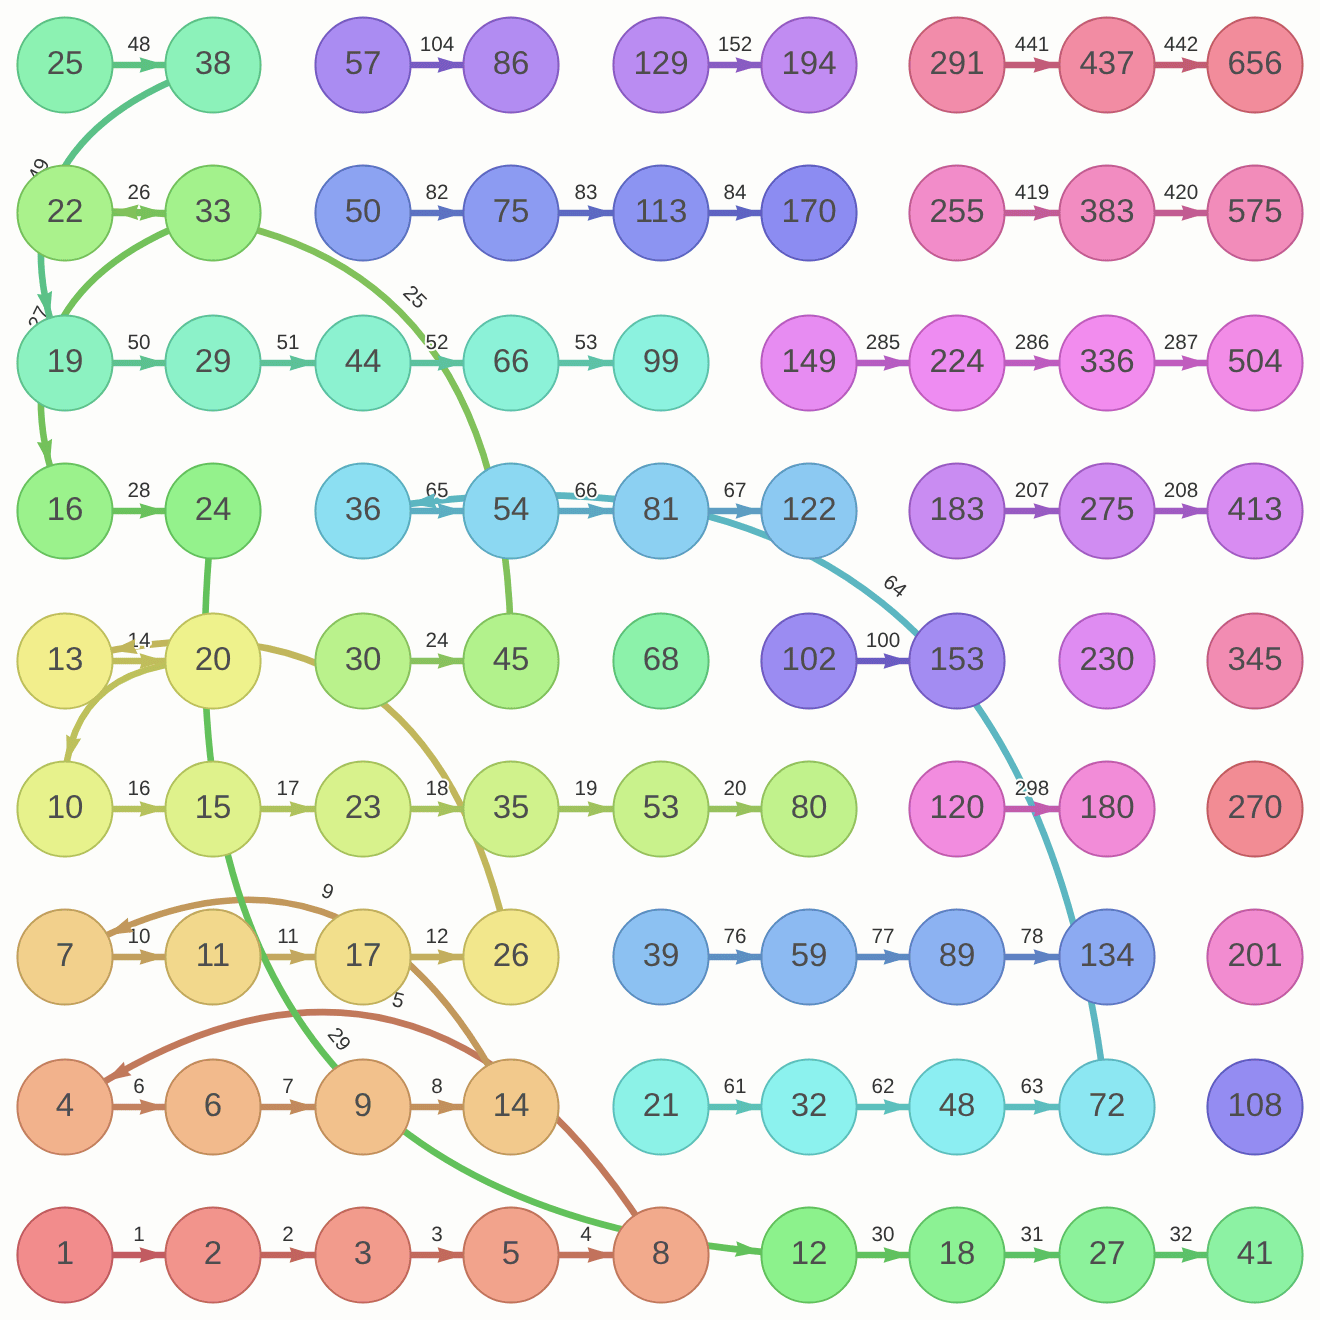
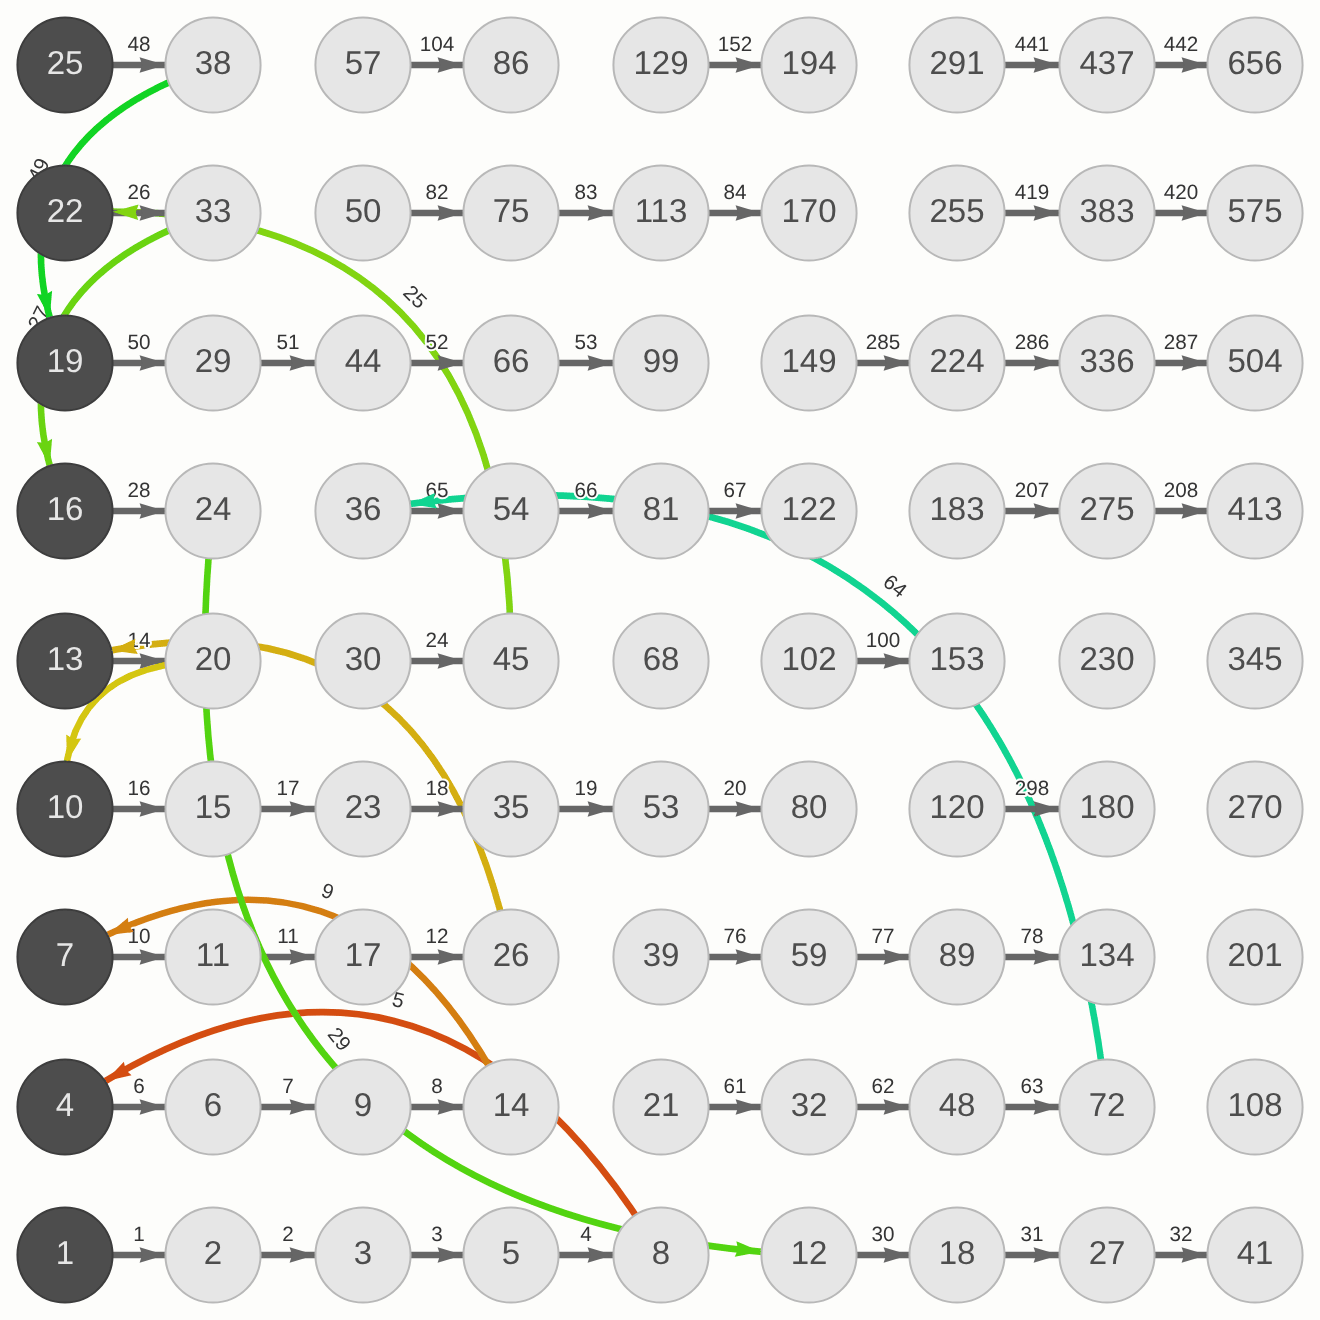
Rosary paper: the beads told so far are T_i; Figure 8 in black and white
- T_i (T for told) replaces V_i; the time T of the proof of Theorem 6
  becomes t_0.
- Figure 8: black and white beads, up moves in gray, down moves as
  curved arrows colored in the order of the moves.

diff --git a/figures/jane-s-rosary/deconstructed.html b/figures/jane-s-rosary/deconstructed.html
@@ -47,6 +47,9 @@
         // P.columns   ['lambex']: write the lambda exponent under each column
         // P.color     ['none', 'position', 'label', 'height', 'reluctant_inv']
         // P.arrows     ['no', 'yes', 'labelled']
+        // P.ink        ['down']: with ordering=reluctant, the up moves are
+        //              drawn in one plain color and only the down moves
+        //              are colored, in the order of the moves
         let wid = parseInt(P.width)
         let hei = parseInt(P.height)
         let sym = P.sym == 'yes' ? true : false
@@ -363,7 +366,15 @@
                             false : {enabled: true, type: 'curvedCCW'}
                         let label = this.arrows == 'yes' ?
                             '' : '' + node_ord
+                        let ink = {}
+                        if (P.ink == 'down') {
+                            const rank = this.reluctant_invs.reduce(
+                                (c, e) => e < node_ord ? c + 1 : c, 0)
+                            ink = {color: node == up(prev_node) ? THEME.line
+                                : hsl_to_col(rank*300/this.side**2, 85, 45)}
+                        }
                         return [{
+                            ...ink,
                             id: prev_node_id*this.side**2 + node_id,
                             from: prev_node_id,
                             to: node_id,

diff --git a/content/posts/2022-12-02-jane-s-infinite-rosary/index.md b/content/posts/2022-12-02-jane-s-infinite-rosary/index.md
@@ -778,14 +778,15 @@ has already been told (or when she is at bead $1$) does she reluctantly move
 *up*.
 
 We write $\rho(i)$ for the bead reached after $i$ moves and
-$V_i = \{\rho(0), \ldots, \rho(i)\}$ for the set of beads told so far. For
+$T_i = \{\rho(0), \ldots, \rho(i)\}$ for the set of beads told so far ($T$ for
+*told*). For
 instance $\rho(0), \rho(1), \ldots = 1, 2, 3, 5, 8, 4, 6, 9, 14, 7, 11, 17, 26,
 13, \ldots$, so $\rho(5) = 4$ and $\rho(12) = 26$. Time is counted from $0$:
 $\rho(i)$ comes after $i$ moves.
 
-[![Figure 8](images/figure-08.png)](https://blog.atlant.is/figures/jane-s-rosary/deconstructed.html?n=0&width=9&height=9&ordering=reluctant&label=position&color=reluctant_inv&arrows=labelled&interactive=yes&first=1)
+[![Figure 8](images/figure-08.png)](https://blog.atlant.is/figures/jane-s-rosary/deconstructed.html?n=0&width=9&height=9&ordering=reluctant&label=position&color=none&ink=down&arrows=labelled&interactive=yes&first=1)
 
-> Figure 8: Jane's reluctant recitation on the deconstructed rosary. Each arrow carries the number of the move, and the beads are colored in the order in which they are told, from red to violet. An up move is a step to the right; a down move jumps to another row ([live version](https://blog.atlant.is/figures/jane-s-rosary/deconstructed.html?n=0&width=9&height=9&ordering=reluctant&label=position&color=reluctant_inv&arrows=labelled&interactive=yes&first=1)).
+> Figure 8: Jane's reluctant recitation on the deconstructed rosary. Each arrow carries the number of the move. An up move is a step to the right, drawn in gray; a down move jumps to another row, and these curved arrows are colored in the order of the moves, from red to green ([live version](https://blog.atlant.is/figures/jane-s-rosary/deconstructed.html?n=0&width=9&height=9&ordering=reluctant&label=position&color=none&ink=down&arrows=labelled&interactive=yes&first=1)).
 
 ```python
 def rho(i: int) -> int:
@@ -807,7 +808,7 @@ below and the bead above have already been told. [Theorem 2](#theorem-2) says th
 never happens.
 
 **Lemma 3 (down-closure).** As long as the recitation is defined: if
-$n \in V_i$, $n > 1$ and $n \neq \rho(i)$, then $nD \in V_i$.
+$n \in T_i$, $n > 1$ and $n \neq \rho(i)$, then $nD \in T_i$.
 
 *Proof.* Say $n = \rho(j)$ with $j < i$. At that moment either $nD$ had been
 told already, or Jane moved to it: $\rho(j+1) = nD$. $\quad\Box$
@@ -820,7 +821,7 @@ except possibly for the path Jane is currently descending.
 
 **Theorem 2.** The reluctant recitation is well defined for all times, $\rho$
 is injective, and it never creates a gap in an up-chain: for every $i$ and
-every white bead $w \in V_i$, we have $w\lambda \in V_i$.
+every white bead $w \in T_i$, we have $w\lambda \in T_i$.
 
 [![Figure 9](images/figure-09.png)](https://blog.atlant.is/figures/jane-s-rosary/deconstructed.html?n=31&width=9&height=9&ordering=reluctant&label=position&color=reluctant_inv&arrows=labelled&interactive=yes&first=1)
 
@@ -840,27 +841,27 @@ defined and distinct; (b) the no-gap property holds at all times $j \leq i$.
 Both are clear for $i = 0$.
 
 *Jane can move at time $i$.* Let $n = \rho(i)$. If $n > 1$ and
-$nD \notin V_i$, she moves down to a new bead. Otherwise she wants to move up
-to $nU$, and we must show $nU \notin V_i$. If $nU = \rho(j)$ for some
+$nD \notin T_i$, she moves down to a new bead. Otherwise she wants to move up
+to $nU$, and we must show $nU \notin T_i$. If $nU = \rho(j)$ for some
 $j \le i$, then $j < i$ and, $nU$ being white, (b) at time $j$ gives
-$n = nU\lambda \in V_j$, contradicting (a). So (a) holds at time $i+1$.
+$n = nU\lambda \in T_j$, contradicting (a). So (a) holds at time $i+1$.
 
 *No gap at time $i+1$.* Let $w = \rho(i+1)$ be white and suppose
-$g = w\lambda \notin V_{i+1}$. The last move was not an up move (it would have
+$g = w\lambda \notin T_{i+1}$. The last move was not an up move (it would have
 come from $g$), so $\rho(i) \in \{w\mu, w\nu\}$. We use [Lemma 1](#lemma-1) and its two
 diagrams: Jane arrived at $w$ down the right-hand side, and the left-hand
 side shows that $g$ had been told before.
 
-- If $\rho(i)$ is the white bead $\hat{w}$: by (b), $\hat{w}\lambda \in V_i$,
+- If $\rho(i)$ is the white bead $\hat{w}$: by (b), $\hat{w}\lambda \in T_i$,
   and $\hat{w}\lambda \neq \rho(i)$, so [Lemma 3](#lemma-3) gives
-  $g = \hat{w}\lambda D \in V_i$.
+  $g = \hat{w}\lambda D \in T_i$.
 - If $\rho(i)$ is the black bead $b$: a black bead is never reached by an up
   move, so $\rho(i-1) = p$ for some $p \in \{b\mu, b\nu\}$, which is white.
-  By (b), $p\lambda \in V_{i-1}$. Applying [Lemma 3](#lemma-3) twice (to $p\lambda$ and
+  By (b), $p\lambda \in T_{i-1}$. Applying [Lemma 3](#lemma-3) twice (to $p\lambda$ and
   then to $p\lambda D$, neither of which is the current bead $p$) gives
-  $g = p\lambda DD \in V_{i-1}$.
+  $g = p\lambda DD \in T_{i-1}$.
 
-Both cases contradict $g \notin V_{i+1}$. $\quad\Box$
+Both cases contradict $g \notin T_{i+1}$. $\quad\Box$
 
 *Used:* [Fact 1](#fact-1), [Lemma 1](#lemma-1) and [Lemma 3](#lemma-3).
 
@@ -1246,7 +1247,7 @@ how Jane spends her time ([Theorem 5](#theorem-5)) and how long a bead may have 
 This section makes [Theorem 3](#theorem-3) quantitative. Let $u(t)$ be the number of up
 moves among Jane's first $t$ moves, and let
 
-$$F(t) = \min\big(\mathbb{N}^*\setminus V_t\big)$$
+$$F(t) = \min\big(\mathbb{N}^*\setminus T_t\big)$$
 
 be the smallest bead that has not been told after $t$ moves (the *frontier*).
 Trivially $F(t) \leq t + 2$.
@@ -1296,7 +1297,7 @@ $1 + \alpha = \log_2 3$.
 (2) Call *depth* of a bead $n$ the integer $\lfloor \log_2 n \rfloor$: a
 down move decreases the depth by exactly $1$ and an up move increases it by
 $0$ or $1$. Let $t$ be a time at which Jane is about to move up, and let $E$
-be the depth of $\rho(t)$. By [Lemma 3](#lemma-3), $V_t$ is then closed under $D$: it is a
+be the depth of $\rho(t)$. By [Lemma 3](#lemma-3), $T_t$ is then closed under $D$: it is a
 subtree with $t + 1$ nodes.
 
 Fix an integer $K \geq 2$ and let
@@ -1320,7 +1321,7 @@ differ by at least $2^{-d}/\ln 2$ have distinct ancestors at depth $d$ (their
 "mantissas" $n/2^{\lfloor\log_2 n\rfloor} \in [1,2)$ differ by at least
 $2^{-d}$). Hence for every $d$ with $d_K \leq d \leq e$, the beads
 $n_0, \ldots, n_{K-1}$ have $K$ distinct ancestors at depth $d$, all of which
-belong to $V_t$. Counting, $t + 1 \geq K(E - K - d_K + 1)$, that is,
+belong to $T_t$. Counting, $t + 1 \geq K(E - K - d_K + 1)$, that is,
 
 $$E \leq \frac{t+1}{K} + K + d_K \qquad\text{whenever } E \ge K + e_K. \tag{$\ast\ast$}$$
 
@@ -1402,7 +1403,7 @@ so $J \leq (6m)^{\beta}/c$, and let $N = 6Jm$, so that $2J/N \leq w_m/3$ and
 $N \ge m$.
 
 *An excursion above $N$ with $J$ up moves reaches $m$.* Suppose that from
-time $T$ to time $t$ Jane stays on beads larger than $N$ and makes at least
+time $t_0$ to time $t$ Jane stays on beads larger than $N$ and makes at least
 $J$ up moves. By Step 4 of the proof of [Theorem 3](#theorem-3), at some time $t' \le t$
 the bead $b$ that she reached by her last up move is in the cone of $m$:
 $m = bD^p$. An up move at most doubles a bead, so $b \le 2^{t'}$ and
@@ -1834,7 +1835,7 @@ machine. The record of what was done, and of what was not, is in
 | up-chain, down-chain | $\uparrow\!(n)$, $\downarrow\!(n)$ | the beads reached from $n$ by up moves only, by down moves only | [Section 4](#4-interlude-more-names) |
 | seed, lambda exponent | $\sigma(n)$, $\Lambda(n)$ | the black bead at the start of the up-chain through $n$; the number of up moves from it to $n$ | [Section 4](#4-interlude-more-names) |
 | winner | "$\mu$ wins", "$\nu$ wins" | of $\boldsymbol{n}^\bullet\mu$ and $\boldsymbol{n}^\bullet\nu$, the one with the larger lambda exponent | [Section 5](#5-theorem-1-minimal-recitations-ending-in-a-black-bead) |
-| reluctant recitation | $\rho(i)$, $V_i$ | Jane's $i$-th bead when she moves down whenever she can; the beads told so far | [Section 6](#6-janes-reluctant-recitation) |
+| reluctant recitation | $\rho(i)$, $T_i$ | Jane's $i$-th bead when she moves down whenever she can; the beads told so far | [Section 6](#6-janes-reluctant-recitation) |
 | cone | | bead $m$ and the beads above it in the binary tree | [Section 8](#8-theorem-3-janes-reluctant-recitation-tells-all-beads) |
 | phase | $\theta(n)$ | $\log_2 n$ modulo $1$ | [Section 8](#8-theorem-3-janes-reluctant-recitation-tells-all-beads) |
 | the angle | $\alpha$ | $\log_2(3/2)$, by which an up move turns the phase | [Section 8](#8-theorem-3-janes-reluctant-recitation-tells-all-beads) |

diff --git a/arxiv/jane-s-rosary/to-port.md b/arxiv/jane-s-rosary/to-port.md
@@ -256,6 +256,18 @@ These reach the paper by a rebuild; to look at in the PDF.
 - [ ] In the PDF, check that the whole statement, with its displayed
       rule and its three parts, sits inside one theorem environment.
 
+## 2026-11-21: Part II, first changes
+
+- [ ] The set of beads told after i moves is T_i ("T for told"), no
+      longer V_i; the time called T in the proof of Theorem 6 is now
+      t_0.
+- [ ] Figure 8 is redrawn: black and white beads, up moves as gray
+      horizontal arrows, down moves as curved arrows colored in the
+      order of the moves. Figure 9 ("the same after 31 moves") still has
+      colored beads, and the picture at the top of the page ("a detail
+      of Figure 8") is still a crop of the old colored figure: both are
+      to be brought in line or their captions changed.
+
 ## To do later, on the page's side (decided 2026-11-21, not started)
 
 The numbers of statements, figures and sections stay typed by hand, on

diff --git a/figures/jane-s-rosary/README.md b/figures/jane-s-rosary/README.md
@@ -18,7 +18,7 @@ Used by the paper, with `janestreet.js`:
 | Page | Shows | Parameters |
 |---|---|---|
 | `rosary.html` | the rosary as a row of beads | `n`, `labels`, `arrows`, `below`, `end`, `string`, `colors`, `interactive` |
-| `deconstructed.html` | the rosary as a grid, one up-chain per row | `n`, `width`, `height`, `ordering`, `label`, `color`, `arrows`, `below`, `columns`, `interactive` |
+| `deconstructed.html` | the rosary as a grid, one up-chain per row | `n`, `width`, `height`, `ordering`, `label`, `color`, `arrows`, `below`, `columns`, `ink`, `interactive` |
 | `height-plot.html` | plot of the heights of beads | `n` |
 | `irrational-log2-3.html` | multiples of log2(3) on the circle | `n`, `interactive` |
 | `onyx-ordering.html` | the tree of the onyx ordering | `n`, `interactive` |
